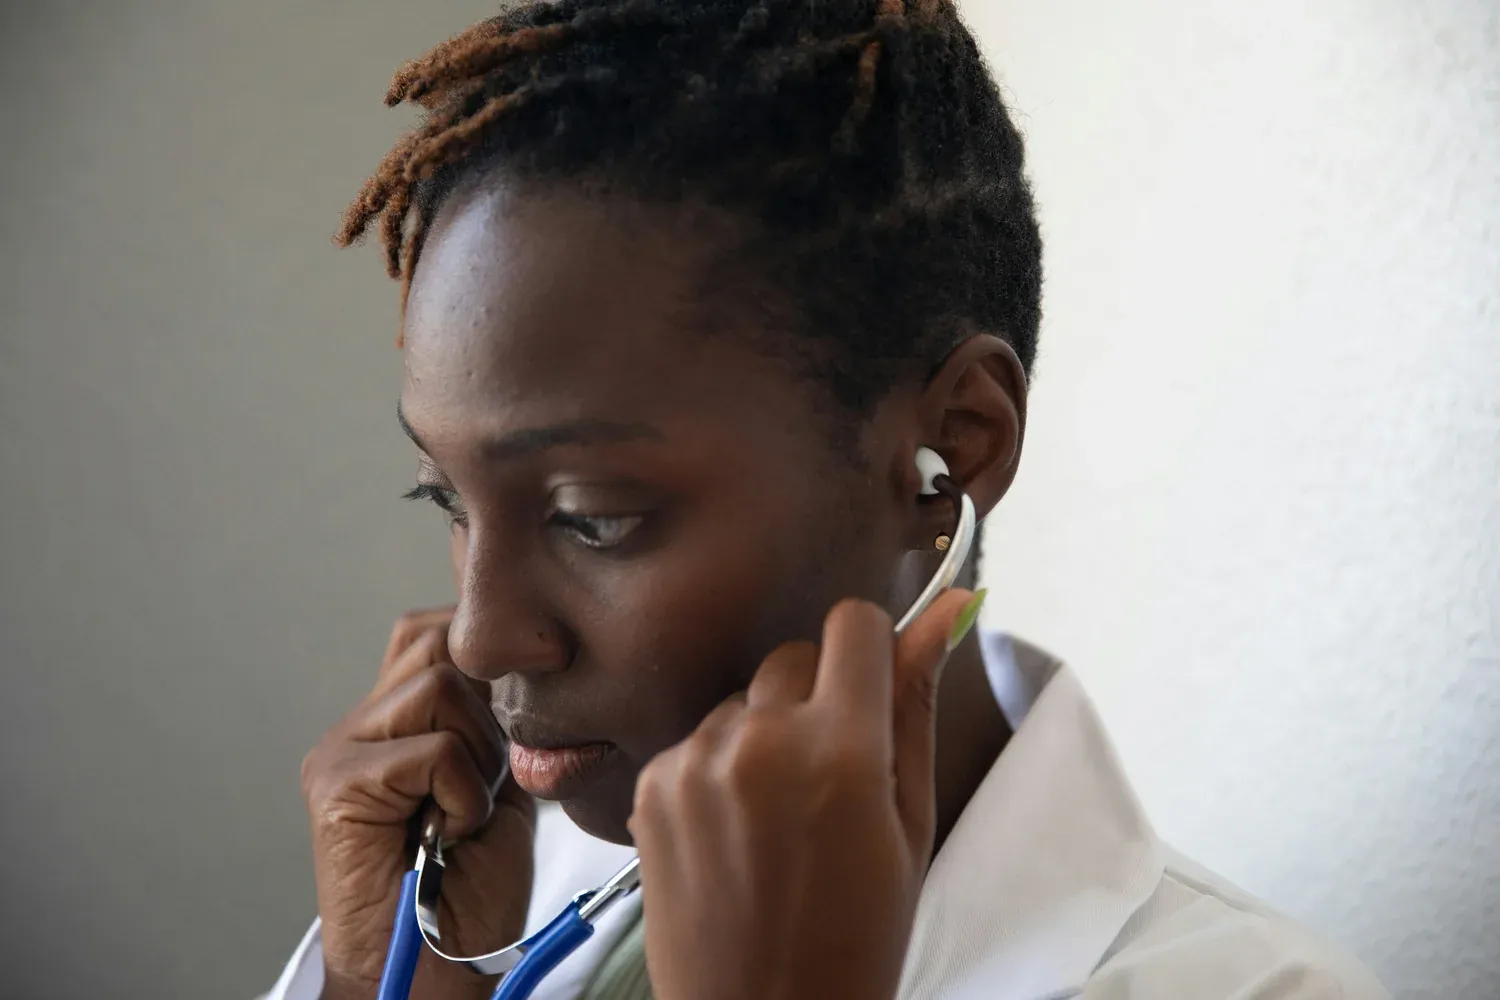
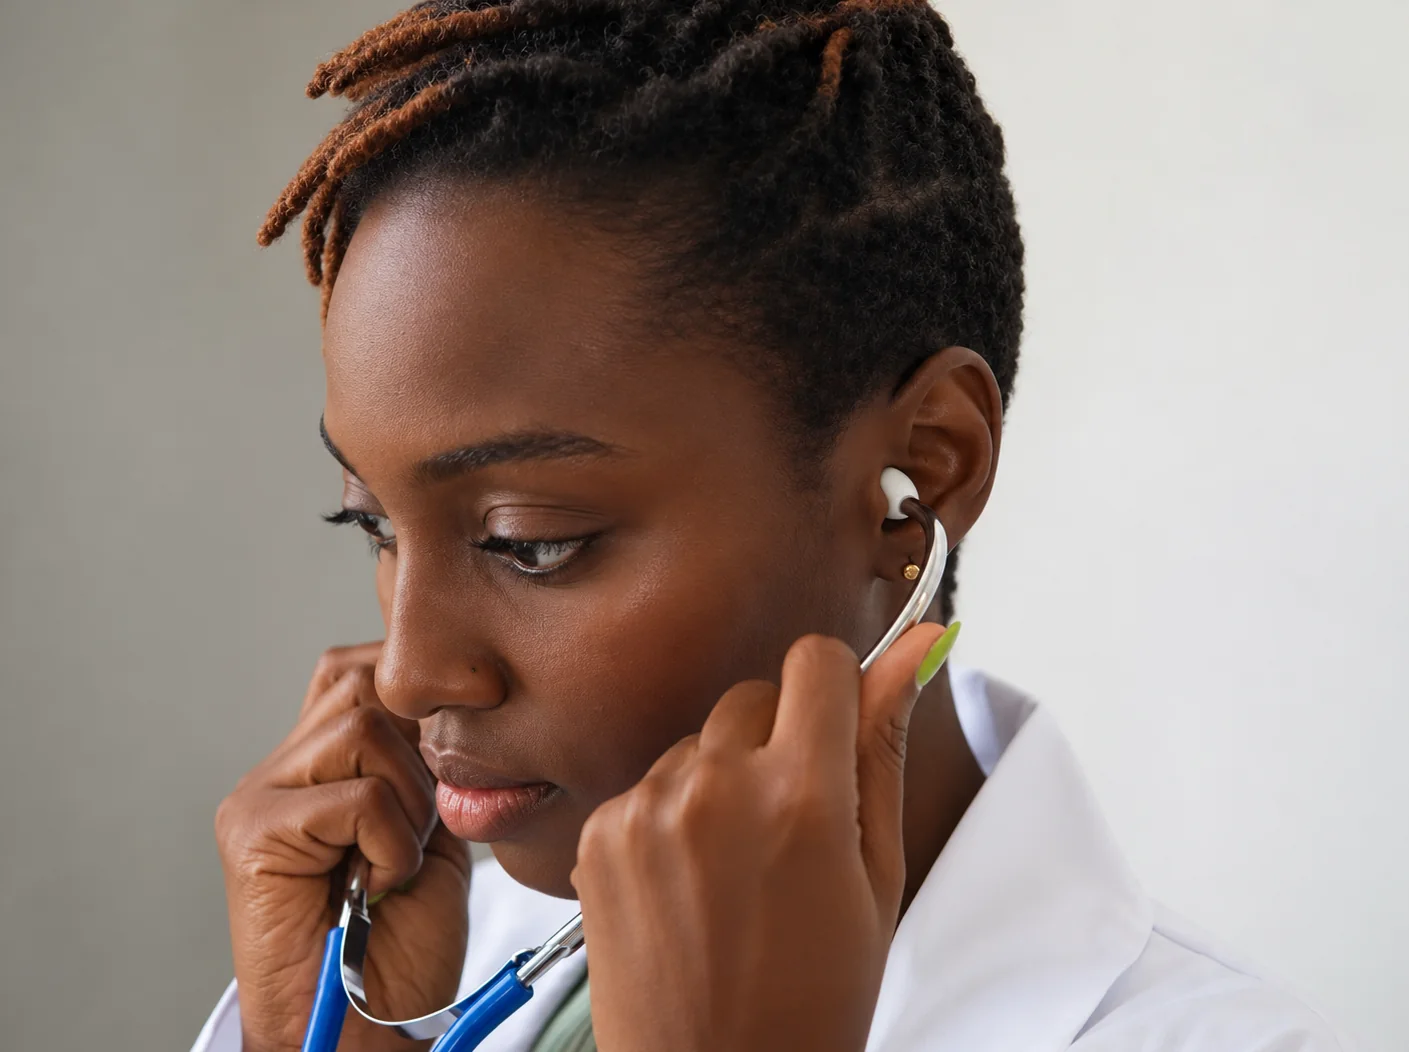
Use the owner's retouched photo in the Diaspora hero
Brighter, sharper version of the same photo, cropped to 4:3 (the
hero's own shape). A navy frame drawn into the supplied file was
trimmed off (18px a side). Saved over doctor-stethoscope.webp.

Claude-Session: https://claude.ai/code/session_01Gg6TP4sXwQchVWe3LbXuH5

diff --git a/docs/ASSET_INVENTORY.md b/docs/ASSET_INVENTORY.md
@@ -37,7 +37,7 @@
 | `midwives-newborn.webp` | Owner-supplied AI-edited adaptation (21 Oct 2026) of Wikimedia Commons, "US, Ghana midwives team up in maternity ward at African Lion 2025" | Public domain (U.S. Government) | U.S. Army, 1st Lt. Katherine Sibilla |
 | `nurse-child-ward.webp` | Owner-supplied AI-edited adaptation (21 Oct 2026) of Pexels 34185202 | Pexels licence | Speak Media Uganda |
 | `doctor-clinic-kinshasa.webp` | Owner-supplied AI-edited adaptation (21 Oct 2026) of Pexels 18844981 (Kinshasa) | Pexels licence | Carmel Nsenga |
-| `doctor-stethoscope.webp` | Unsplash 9aBsCd9Fvgc, supplied by the owner from westahp.com (Squarespace CDN) | Unsplash licence | Unsplash contributor (name to confirm) |
+| `doctor-stethoscope.webp` | Unsplash 9aBsCd9Fvgc, supplied by the owner from westahp.com (Squarespace CDN). Since 6 Nov 2026 an owner-supplied retouched version (brighter, sharper, cropped to 4:3; a navy frame baked into the file was trimmed off, 18px a side; 1409×1052) | Unsplash licence (edits are allowed) | Unsplash contributor (name to confirm) |
 | `patient-portrait.webp` | Unsplash gi3Jox2cdrI, supplied by the owner from westahp.com; re-encoded from the 2500px original | Unsplash licence | Unsplash contributor (name to confirm) |
 | `village-hospital-yard.webp` | Pexels 4483669 | Pexels licence | Pexels contributor (name to confirm) |
 | `community-outreach.webp` | Pexels 4483695 | Pexels licence | Pexels contributor (name to confirm) |

diff --git a/docs/IMPLEMENTATION_LOG.md b/docs/IMPLEMENTATION_LOG.md
@@ -307,3 +307,7 @@ Both redrawn as inline SVG after the owner's mockups, so they stay sharp, keep t
 - Partners have no page of their own, so "For partners" (footer), the Home Partners card and "Discuss a partnership" (Platform) now open Contact with the Partners Call selected (`/contact?type=partnership#schedule`). Patients have no call type, so their page is unchanged.
 - The booking card is one shared component (`call-booking.tsx`) used by these sections and by the Contact page picker. Inside navy sections it keeps teal focus rings, so keyboard focus stays visible on the white card.
 
+## 6 Nov 2026, retouched photo in the Diaspora hero
+
+- At the owner's request the Diaspora page hero uses the owner's retouched version of the same photo (the doctor putting on her stethoscope): brighter, sharper and cropped to 4:3, which is the hero's own shape. The file came with a thin navy rounded frame drawn into it; 18px was trimmed from each side so only the site's own rounded corners show. Saved over `doctor-stethoscope.webp` (1409×1052, 77 KB), so nothing else changed. Alt text unchanged.
+
